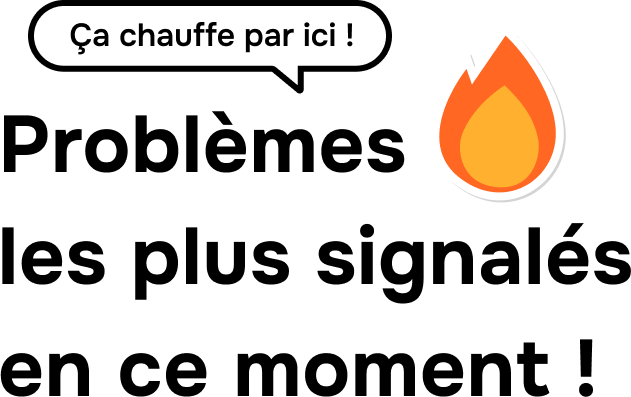
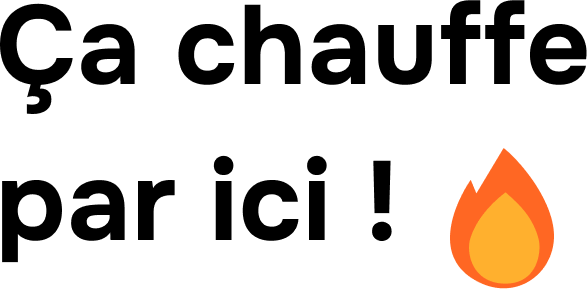
correction cdc

diff --git a/src/pages/home/Home.tsx b/src/pages/home/Home.tsx
@@ -177,45 +177,35 @@ function Home() {
                 selectedBrand={selectedBrand}
                 setSelectedBrand={setSelectedBrand}
               />
-
-            <div className="cdc-content">
-              <div className="background-cdc" ></div>
-                <div className="feedback-list-section">
-                  {isLoading ? (
-                    <SqueletonAnime
-                      loaderRef={{ current: null }}
-                      loading={true}
-                      hasMore={false}
-                      error={null}
+              {isLoading ? (
+                <SqueletonAnime
+                  loaderRef={{ current: null }}
+                  loading={true}
+                  hasMore={false}
+                  error={null}
+                />
+              ) : (
+                <div className="feedback-view-container">
+                  <div className="feedback-view-wrapper">
+                    <FeedbackView
+                      activeTab={activeTab}
+                      viewMode="flat"
+                      currentState={{ data: feedbackData, loading: isLoading, hasMore: false, error: null }}
+                      openId={null}
+                      setOpenId={() => {}}
+                      groupOpen={{}}
+                      setGroupOpen={() => {}}
+                      selectedBrand={selectedBrand}
+                      selectedCategory=""
+                      renderCard={() => <></>}
                     />
-                  ) : (
-                    <div className="feedback-view-container">
-                      <div className="feedback-view-wrapper">
-                        <FeedbackView
-                          activeTab={activeTab}
-                          viewMode="flat"
-                          currentState={{ data: feedbackData, loading: isLoading, hasMore: false, error: null }}
-                          openId={null}
-                          setOpenId={() => {}}
-                          groupOpen={{}}
-                          setGroupOpen={() => {}}
-                          selectedBrand={selectedBrand}
-                          selectedCategory=""
-                          renderCard={() => <></>}
-                        />
-                      </div>
-                      <aside className="right-panel">
-                        <img src={cdcImgSide} alt="igm" />
-                      </aside>
-                    </div>
-                  )}
+                  </div>
+                  <aside className="right-panel">
+                    <FilterIllustration filter={activeFilter} selectedBrand={selectedBrand} />
+                  </aside>
                 </div>
-              </div>
+              )}
             </div>
-
-            {/* <aside className="right-panel">
-              <FilterIllustration filter={activeFilter} selectedBrand={selectedBrand} />
-            </aside> */}
           </div>
         )}
 

diff --git a/src/pages/home/FilterBar.tsx b/src/pages/home/FilterBar.tsx
@@ -4,10 +4,10 @@ import SearchBar from "./components/searchBar/SearchBar";
 import "./FilterBar.scss";
 
 interface Props {
-  filter: "hot" | "rage" | "popular" | "urgent" | "confirmed" | "chrono" | "";
+  filter: "hot" | "rage" | "popular" | "recent" | "urgent" | "confirmed" | "chrono" | "";
   setFilter: React.Dispatch<
     React.SetStateAction<
-      "hot" | "rage" | "popular" | "urgent" | "confirmed" | "chrono" | ""
+      "hot" | "rage" | "popular" | "recent" | "urgent" | "confirmed" | "chrono" | ""
     >
   >;
   viewMode: "flat" | "chrono" | "confirmed";
@@ -113,7 +113,7 @@ const FilterBar: React.FC<Props> = ({
                 setViewMode("confirmed");
                 onViewModeChange?.("confirmed");
                 setActiveFilter("confirmed");
-              } else if (["rage", "popular", "urgent"].includes(value)) {
+              } else if (["rage", "popular", "recent", "urgent"].includes(value)) {
                 setFilter(value as any);
                 setViewMode("chrono");
                 onViewModeChange?.("chrono");
@@ -126,9 +126,10 @@ const FilterBar: React.FC<Props> = ({
               }
             }}
           >
-            <option value="hot">🔥 Ça chauffe par ici</option>
-            <option value="rage">😡 Les plus rageants</option>
-            <option value="popular">👍 Les plus populaires</option>
+            <option value="hot">🔥 Problèmes les plus signalés</option>
+            <option value="rage">😡 Problèmes les plus rageants</option>
+            <option value="popular">👍 Signalements les plus populaires</option>
+            <option value="recent">📅 Signalements les plus récents</option>
             <option value="urgent">👀 À shaker vite</option>
           </select>
         </div>

diff --git a/src/pages/home/home-illustration/FilterIllustration.tsx b/src/pages/home/home-illustration/FilterIllustration.tsx
@@ -2,16 +2,16 @@ import hotImg from "/assets/filters-reports/hot1.png";
 import rageImg from "/assets/filters-reports/rage1.png";
 import popularImg from "/assets/filters-reports/popular1.png";
 import urgentImg from "/assets/filters-reports/carrying1.png";
-import recentImg from "/assets/filters-reports/recent.png";
+import recentImg from "/assets/filters-reports/recent1.png";
 
 // 🎨 Ajouts spécifiques pour Coup de cœur & Suggestions
-import likedImg from "/assets/filters-cdc/liked-cdc.png";
-import recentCdcImg from "/assets/filters-cdc/recent-cdc.png";
-import commentedImg from "/assets/filters-cdc/commented.png";
+import likedImg from "/assets/img-banner/banner-cdc-pop.png";
+import recentCdcImg from "/assets/img-banner/banner-cdc-liked.png";
+import commentedImg from "/assets/img-banner/banner-cdc-liked.png";
 
-import discussedImg from "/assets/filters-suggestion/discussed.png";
-import recentSuggestionImg from "/assets/filters-suggestion/recentSuggestion.png";
-import likedSuggestionImg from "/assets/filters-suggestion/liked.png";
+import discussedImg from "/assets/img-banner/banner-cdc-liked.png";
+import recentSuggestionImg from "/assets/img-banner/banner-cdc-liked.png";
+import likedSuggestionImg from "/assets/img-banner/banner-cdc-liked.png";
 
 import { useEffect, useState } from "react";
 import { fetchValidBrandLogo, getBrandLogo } from "@src/utils/brandLogos";
@@ -66,13 +66,12 @@ const illustrationMap = {
     emoji: "🥰",
     img: likedImg,
   },
-  
   enflammes: {
     label: "Les plus enflammés",
     emoji: "❤🔥",
     img: commentedImg,
   },
-  commented: {
+  recentcdc: {
     label: "Les plus commentés",
     emoji: "💬",
     img: commentedImg,

diff --git a/src/pages/home/Home.scss b/src/pages/home/Home.scss
@@ -117,19 +117,20 @@
     }
   }
 
-  &.banner-confirmed { background-color: #C6D8FE; }
-  &.banner-popular { background-color: #D6F2CE; }
-  &.banner-rage { background-color: #F6CBE1; }
-  &.banner-urgent { background-color: #D9C5F6; }
-  &.banner-chrono { background-color: #90caf9; }
+  &.banner-confirmed { background-color: #DDE2FF; }
+  &.banner-popular { background-color: #DDE2FF; }
+  &.banner-rage { background-color: #DDE2FF; }
+  &.banner-urgent { background-color: #DDE2FF; }
+  &.banner-chrono { background-color: #DDE2FF; }
 }
 
 /* ==== Coups de cœur ==== */
 .cdc-banner-container {
   display: flex;
   width: 100%;
+  max-width: 1120px;
   border-radius: 24px;
-  padding: 16px 24px;
+  padding: 28px 24px;
   margin: 4.5rem 0 32px 0;
   justify-content: space-between;
   align-items: flex-start;
@@ -158,7 +159,7 @@
       }
     }
     .filter-bar-generic-container{
-      @media screen and (max-width: 1570px) {
+      @media screen and (max-width: 1350px) {
         width: 100%;
         max-width: none;
       }
@@ -194,9 +195,12 @@
   }
 
 
-  &.banner-liked { background-color: #ffb3c6; }
-  &.banner-recent { background-color: #ffd6e0; }
-  &.banner-commented { background-color: #ffc1d9; }
+  &.banner-liked,
+  &.banner-recent,
+  &.banner-commented,
+  &.banner-all,
+  &.banner-enflammes,
+  &.banner-popular { background-color: #FFE9E9; }
   .feedback-view-container{
     display: flex;
     flex-direction: row;
@@ -261,6 +265,9 @@
   padding: 20px 0px 0px 15px;
   @media screen and (max-width: 1570px) {
     width: 100%;
+    max-width: none;
+  }
+  @media screen and (max-width: 1350px) {
     max-width: none;
   }
 }

diff --git a/src/pages/home/HomeFiltersCdc.tsx b/src/pages/home/HomeFiltersCdc.tsx
@@ -39,11 +39,10 @@ const HomeFiltersCdc = ({
     <div className="controls">
     <FilterBarGeneric
       options={[
-        { value: "all", label: "🌍 Tous les coups de cœur" }, // ✅ Ajout du filtre "all"
-        { value: "popular", label: "🥰 Les plus aimés" }, // getPopularCoupsDeCoeur
-        { value: "enflammes", label: "🔥 Les plus enflammés" }, // getEnflammesCoupsDeCoeur
-        /* { value: "recent", label: "🕒 Les plus récents" },
-        { value: "commented", label: "💬 Les plus commentés" }, */
+        { value: "all", label: "👍 Coups de cœur populaires" }, // ✅ Ajout du filtre "all"
+        { value: "enflammes", label: "❤🔥 Coups de cœur les plus enflammés" }, // getEnflammesCoupsDeCoeur
+        { value: "recent", label: "💌 Coups de cœur les plus récents" },
+        /* { value: "commented", label: "💬 Les plus commentés" }, */
       ]}
       filter={filter}
       setFilter={setFilter}

diff --git a/src/pages/home/HomeGroupedReportsList.scss b/src/pages/home/HomeGroupedReportsList.scss
@@ -17,7 +17,7 @@
   align-items: center;
   gap: 12px;
   flex-wrap: wrap; // 🔁 Permet le retour à la ligne sur petit écran
-  margin-bottom: 40px;
+  // margin-bottom: 40px;
 
   .profile-filters-container {
     display: flex;

diff --git a/src/components/profile/UserGroupedReportsList.scss b/src/components/profile/UserGroupedReportsList.scss
@@ -619,6 +619,9 @@
   border-radius: $border-radius-md;
   overflow: hidden;
   transition: box-shadow 0.3s ease;
+  @media screen and (max-width: 1350px) {
+    max-width: none;
+  }
 
   &.open {
     .card-header {

diff --git a/src/pages/home/home-illustration/FilterIllustration.scss b/src/pages/home/home-illustration/FilterIllustration.scss
@@ -2,6 +2,9 @@
   width: 320px;
   padding: 20px;
   padding-right: 0;
+  @media screen and (min-width: 1620px) {
+    padding-left: 0;
+  }
   position: sticky;
   top: 100px;
   height: fit-content;
